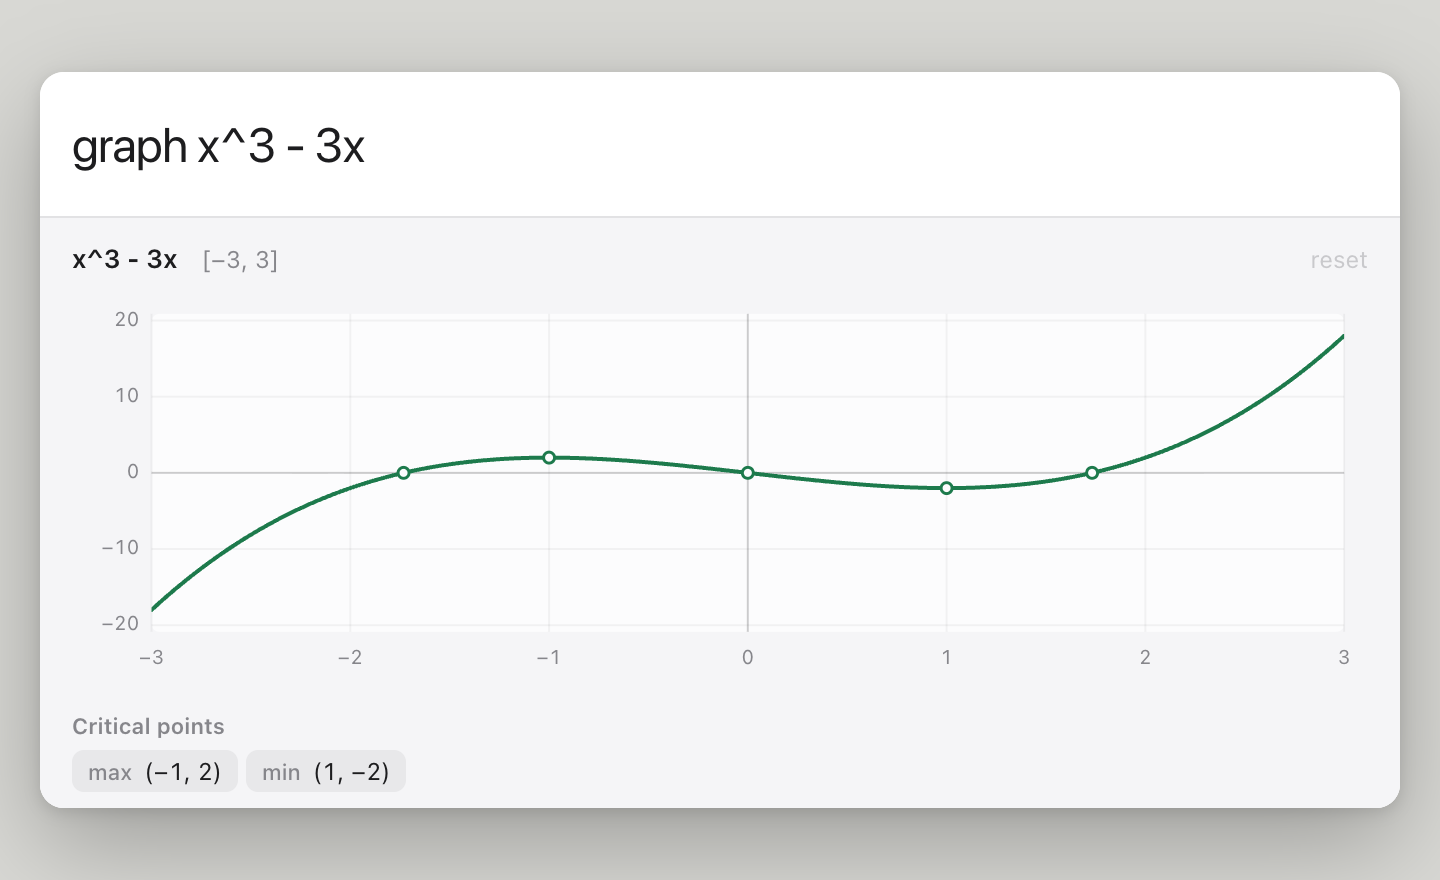
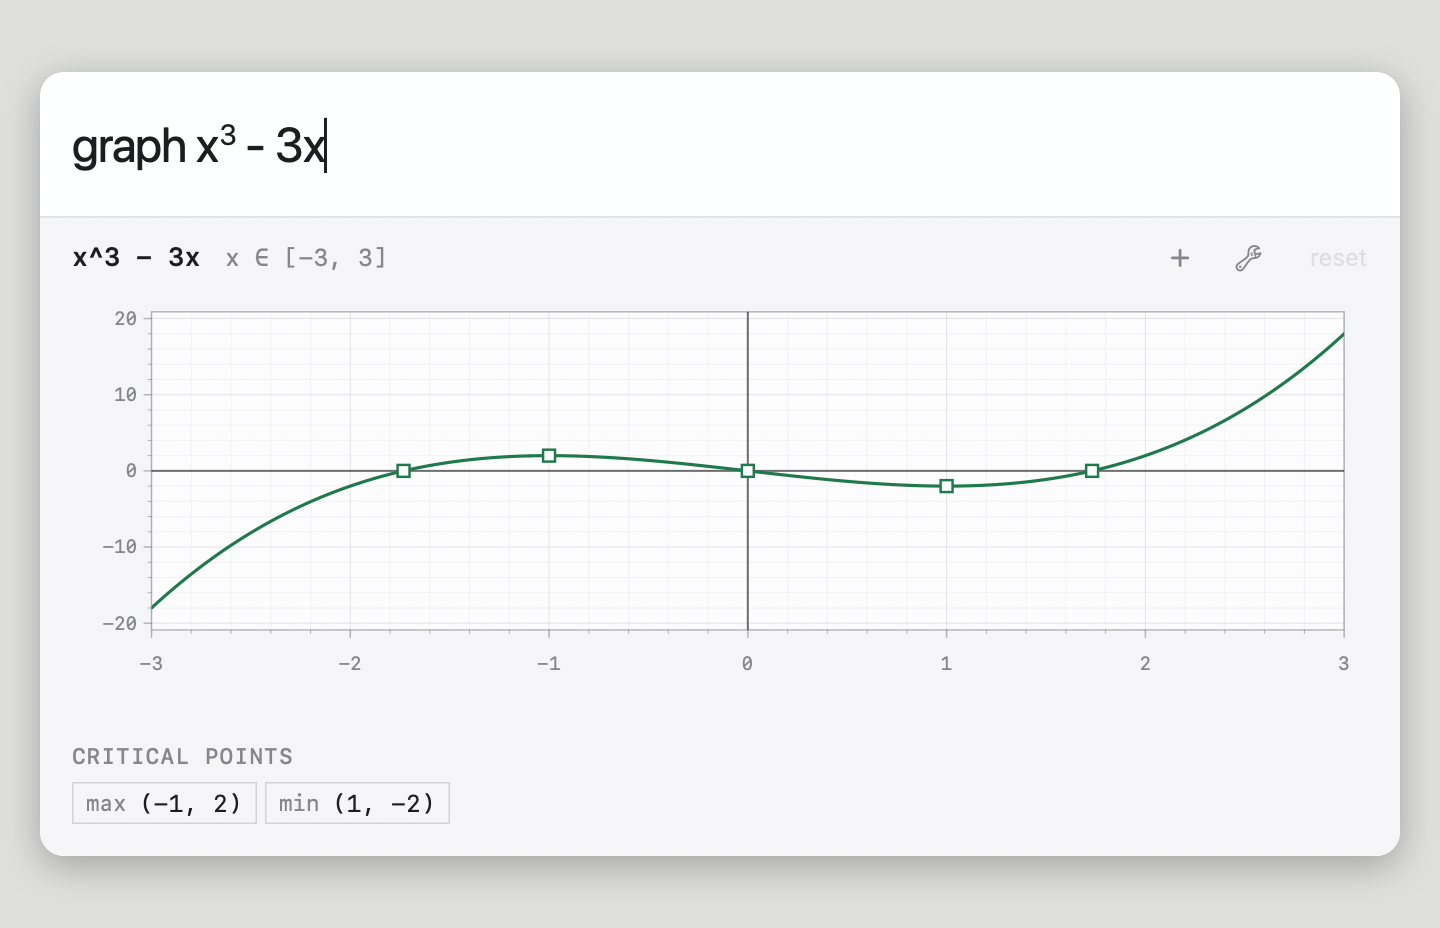
readme: every feature listed, and new screenshots from the native mac app (14 scenes, light and dark: adds 3D graphs, systems, calculus, matrices, complex numbers, the identities sheet and games); mac needs macOS 12

diff --git a/README.md b/README.md
@@ -4,58 +4,177 @@ A Spotlight-style scientific calculator for Mac and Windows. Press **Control + O
 
 Type `sin(90)`, `72 f`, or `$10 for lunch + 15% tip` — the answer updates as you type.
 
-## Preview
+## Features
 
-**Unit conversion.** Type a value with units, and add `to` for a specific target.
+Q Calc runs on Mac and Windows. A few of the newest features, marked *(Mac)*, are on the Mac first and come to Windows in a later update. On Windows, read **⌘** and **⌃** as **Ctrl** and **Option** as **Alt**; every shortcut can be changed under **Keybinds** in settings. Type `?` in the bar for a cheat sheet of keys and things to try, or `tutorial` for the walkthrough.
+
+### The bar
+
+- **Control + Option + Space** (**Alt + Space** on Windows) shows the calculator over whatever you're doing. **Esc** or a click outside hides it, and what you were typing is kept for a while (**Keep unfinished** in settings).
+- The answer updates as you type, with a typeset preview of the expression underneath when it helps.
+- Type as you would on a scientific calculator: `sin(90)`, `arcsin(0.5)`, `sin^-1(0.5)`, `sqrt(2)`, `2^8`, `5!`, `nCr(5,2)`, `GCF(12, 18)`, `LCM(4, 6)`, `80 + 15%`. Words become symbols as you type (`pi` → π, `sqrt` → √), with the square root drawn over what it covers.
+- Grey parentheses show where Q Calc closes what you left open; **Tab** (or **→** at the end) types them in. **Tab** also accepts a completion.
+- Units and functions are coloured as you type, and hovering a word names it (`ms` millisecond, `gcf` greatest common factor, `π` pi). A faint `°` or `rad` after a trig argument shows which angle mode it's read in.
+- If a line can't be answered, a squiggle shows where and why.
+- *(Mac)* **Stacked fractions and powers** (a setting, off by default): `/` puts what you typed over a fraction bar and `^` raises the power, as on a graphing calculator; **↑** and **↓** move between top and bottom.
+- Pasted text becomes one plain line. On the Mac, **Bring in highlighted text** (settings) puts text you've highlighted in another app into the bar.
+
+### Answers
+
+- Exact and decimal side by side for roots and trig (`sqrt(3)/2 ≈ 0.866025`). **Answers → Exact** or **Approximate** picks which one **⌘C** and `ans` use; **Rationalize denominators** rewrites `5/sqrt(41)` as `5sqrt(41)/41`.
+- **⌃D** switches degrees and radians, **⌃F** fraction answers, **⌃S** significant figures from the input (`12.0 kg + 3.15 kg` is `15.2 kg`). **⌃E** turns on exponent form (`3 × 10³`) and **⌃⇧E** cycles the other answer forms.
+- Click an answer, or press **⌘C**, to copy it. Each half of an exact ≈ decimal answer copies on its own. **⌘⇧C** copies the whole line. Copies leave the unit off by default, and can be Typst-compatible.
+- Select part of the line to see that part's answer on its own.
+- Start a line with an operator to keep going from the last answer (`*2`), or type `ans`.
+- *(Mac)* **⌃W** shows the working: derivatives by rule, integrals by parts or substitution, equations step by step.
+
+### History
+
+- **Enter** saves a calculation to the tape above the bar. **↑** and **↓** walk back through it, and **←** / **→** pick the expression or the answer. Clicking (or **Enter** on) a row inserts it at the cursor: `cos(` then a previous `31` becomes `cos(31)`.
+- **⌘⌫** deletes a row and **⌘Z** brings it back. **⌃C** (**Ctrl + Shift + Backspace** on Windows) clears history and stored variables.
+- Settings choose whether the tape shows recent rows, always, or only on **↑**, and whether a row inserts its expression or its answer.
+
+<picture>
+  <source media="(prefers-color-scheme: dark)" srcset="docs/screenshots/history-dark.png">
+  <img alt="History tape: x = 9.81, √2 ≈ 1.41421, arcsin(0.5) = 30 deg, x * 2.5^2 / 2 = 30.6563, integral(x^2, 0, 3) = 9, then ans*3 = 27" src="docs/screenshots/history.png" width="720">
+</picture>
+
+### Units and measurement
+
+- Type a value with units and add `to` for a target: `72 f`, `2 in to cm`, `5 ft 10 in to cm`, `3.2 atm to kPa`, `60 mph to m/s`. Units carry through the math (`$30/hr * 40 hr`, `10 mA * 4.7 kohm`).
+- Feet and inches as builders write them: `6'2`, `5 3/8"`, `6'5 3/8"`, with answers in sixteenths when they're fractional.
+- **Option + ↑** / **Option + ↓** step a unit through its metric prefixes (`4700 ohm` → `4.7 kΩ`) or *(Mac)* a length between feet-and-inches and feet.
+- Any angle unit inside trig: `sin(90 deg)`, `cos(π/4 rad)`.
+- Default units are set per quantity in settings.
+- `conversion` or `metric prefixes` opens a sheet of the metric prefixes, common conversion factors and temperature formulas.
 
 <picture>
   <source media="(prefers-color-scheme: dark)" srcset="docs/screenshots/units-dark.png">
-  <img alt="Unit conversions: 98.6 f is 37 °C, 60 mph is 26.8224 m/s, 5 ft 10 in is 177.8 cm" src="docs/screenshots/units.png" width="720">
+  <img alt="Unit conversions: 98.6 f is 37 °C, 60 mph is 26.8224 m/s, 3.2 atm is 324.24 kPa, 5 ft 10 in is 177.8 cm" src="docs/screenshots/units.png" width="720">
 </picture>
 
-**Uncertainty.** Type `+/-` or `~` for ±, and the uncertainty carries through the calculation.
+### Uncertainty and significant figures
+
+- Type `+/-` or `~` for ± (`-/+` for ∓), and the uncertainty carries through the calculation: `(9.81 ± 0.02) * (2.50 ± 0.01)` is `24.53 ± 0.15`.
+- Significant figures follow the input when **⌃S** is on, so an answer rounds itself correctly.
 
 <picture>
   <source media="(prefers-color-scheme: dark)" srcset="docs/screenshots/uncertainty-dark.png">
   <img alt="Uncertainty: (9.81 ± 0.02) * (2.50 ± 0.01) is 24.53 ± 0.15" src="docs/screenshots/uncertainty.png" width="720">
 </picture>
 
-**Calendar and time math** (Mac and Windows apps).
+### Algebra and solving
 
-<picture>
-  <source media="(prefers-color-scheme: dark)" srcset="docs/screenshots/calendar-dark.png">
-  <img alt="Calendar math: today + 90 days, days until December 25, 3:45pm + 4 hr 10 min is 7:55 PM" src="docs/screenshots/calendar.png" width="720">
-</picture>
-
-**History.** Enter saves a calculation, and the arrow keys walk back through the tape. Stored variables like `x` carry into later lines.
-
-<picture>
-  <source media="(prefers-color-scheme: dark)" srcset="docs/screenshots/history-dark.png">
-  <img alt="History tape with a variable, square root, sine, and an integral" src="docs/screenshots/history.png" width="720">
-</picture>
-
-**Solving equations.** Type an equation with `=` to solve it.
+- Variables and functions: `x = 5`, then `x*2`; `f(x) = x^3`, then `f(2)`. Definitions after a `;` apply to that line alone: `x^2 + y; x=5; y=2`.
+- Type an equation with `=` to solve it: `x^2 - 5x + 6 = 0` gives `x = 2, 3`, and every root copies on its own. `solve(x^2 - cos(x) = 0, x = 0.2)` starts Newton's method from a guess, and equations can carry units: `solve(0.5 = e^(-t/0.384 ms), t)` is `0.266 ms`.
+- Rearrange a formula with `isolate`: `isolate T in PV = nRT` gives `T = P*V/(R*n)`. `solve y = mx + b for x` rearranges, or gives a number when every other letter is known.
+- Systems of equations: `sys 2` through `sys 5` open fields that solve as you type, units included (`x + y = 10 m`, `x - y = 2 m` gives `x = 6 m, y = 4 m`). Nonlinear systems solve too, exactly when they can and numerically when not. In one line: `solve({x^2 + y^2 = 4, x^2 - y = 2})`.
+- Summations: `sum n, n=1..9`, with the limits typed into small slots beside Σ.
 
 <picture>
   <source media="(prefers-color-scheme: dark)" srcset="docs/screenshots/solve-dark.png">
-  <img alt="Solving x^2 - 5x + 6 = 0 gives x = 2, 3, and 2^x = 10 gives x = 3.32192809489" src="docs/screenshots/solve.png" width="720">
+  <img alt="Solving x^2 - 5x + 6 = 0 gives x = 2, 3; 2^x = 10 gives x = 3.32193; isolate T in PV = nRT gives T = P*V/(R*n)" src="docs/screenshots/solve.png" width="720">
 </picture>
 
-**Graphing.** `graph` plots a function and lists its critical points.
+<picture>
+  <source media="(prefers-color-scheme: dark)" srcset="docs/screenshots/system-dark.png">
+  <img alt="sys 2 with x + y = 10 m and x - y = 2 m gives x = 6 m, y = 4 m" src="docs/screenshots/system.png" width="720">
+</picture>
+
+### Calculus
+
+- Derivatives: `d/dx x^2 sin(x)`.
+- Definite integrals (`integral(x^2, 0, 3)`) and indefinite ones from a table (`∫ x e^x dx` is `x e^x - e^x + C`).
+- Differential equations: `y' = …`, `dy/dx`, and linear equations of first or second order with constant coefficients (`y'' + y = 0`).
+- Time derivatives for dynamics: `d/dt (x sin(theta))` is `ẋ sin(θ) + xθ̇ cos(θ)`, and `d²/dt²` works too. A row of chips shows which letters change with time; click one to switch it. Dotted variables can be typed `thetadot`, `dot(theta)` or `\dot\theta`, and LaTeX pastes straight in.
+
+<picture>
+  <source media="(prefers-color-scheme: dark)" srcset="docs/screenshots/calculus-dark.png">
+  <img alt="d/dt (x sin(theta)) is ẋ sin(θ) + xθ̇ cos(θ); d/dx x^3 e^x is e^x (3x² + x³); y'' + y = 0 gives y = C1 cos(x) + C2 sin(x); ∫ x e^x dx is x e^x - e^x + C" src="docs/screenshots/calculus.png" width="720">
+</picture>
+
+### Matrices and vectors
+
+- `[1 2; 3 4]` or `[[1,2],[3,4]]`, with `+`, `-` and `*` (a number scales, two matrices multiply rows by columns), `inv(A)`, `A^-1` or `inverse of A`, `det(A)` or `det A`, `A^T`, `A'` or `transpose A`, `trace(A)`, `rank(A)`, `rref(A)`, `identity(3)`, and `dot`, `cross` and `norm` for vectors. Entries can be any math (`[sqrt(2) 0; 0 1]`), answers show simple fractions beside the decimals, and a matrix answer becomes `ans`, so `*2` keeps going. Store one with `A = [1 2; 3 4]`. Sizes that don't fit say why, and a nearly singular matrix has no inverse rather than junk digits.
+
+<picture>
+  <source media="(prefers-color-scheme: dark)" srcset="docs/screenshots/matrix-dark.png">
+  <img alt="A = [1 2; 3 4], det(A) = -2, and inv(A) = [-2 1; 3/2 -1/2] with a typeset preview" src="docs/screenshots/matrix.png" width="720">
+</picture>
+
+### Complex numbers
+
+- `i` or `j`: `(3+j4)/(1-j)`, `e^(j0.5)`, phasors like `10∠30`, `3+j4 in polar`, and complex values with units such as `(3+j4) kΩ`.
+
+<picture>
+  <source media="(prefers-color-scheme: dark)" srcset="docs/screenshots/complex-dark.png">
+  <img alt="3+j4 in polar is 5∠53.1301°, 10∠30 is 8.66025 + j5, and (3+j4)/(1-j) is -0.5 + j3.5" src="docs/screenshots/complex.png" width="720">
+</picture>
+
+### Graphing
+
+- `graph x^3 - 3x`, `graph f`, or `graph f(x) = x^3` opens a graph under the bar with pan, zoom and a hover readout, and lists roots, maxima, minima and intercepts as chips that copy their value.
+- *(Mac)* Implicit curves (`graph x^2 + y^2 = 25`), lines through points, and several equations on one graph (`graph a; b`, or the **+** in its header), each in its own colour.
+- *(Mac)* Surfaces in 3D: `graph z = x^2 - y^2` opens a view you can orbit, pan and zoom, with minima, maxima and saddle points listed, or a contour view.
+- The wrench opens graph settings: polar grid, axis labels, minor gridlines, Zoom Square and more.
 
 <picture>
   <source media="(prefers-color-scheme: dark)" srcset="docs/screenshots/graph-dark.png">
   <img alt="Graph of x^3 - 3x with a max at (-1, 2) and a min at (1, -2)" src="docs/screenshots/graph.png" width="720">
 </picture>
 
-**Periodic table.** Type `periodic table`, then click elements to build a formula (H, H, O is H₂O) and click it to insert its molar mass; a right click takes one away. A formula typed in the bar (`H2O`, `Ca(OH)2`, `molar mass of NaCl`) answers with its molar mass too.
+<picture>
+  <source media="(prefers-color-scheme: dark)" srcset="docs/screenshots/surface-dark.png">
+  <img alt="3D graph of z = (x^2 - y^2)/2 with a saddle point at (0, 0, 0)" src="docs/screenshots/surface.png" width="720">
+</picture>
 
-**Reference sheets.** `identities` (or `idt`) opens trig, logs, algebra, partial fractions and summation; `idt summation` opens it at that part, and `trig` at trig. `integrals`, `unit conversions` and `constants` (CODATA physical constants) open sheets of their own. A click copies a row.
+### Chemistry and reference sheets
+
+- `periodic table` (or `periodic`): click elements to build a formula (H, H, O is H₂O) and click it to insert its molar mass. A formula typed in the bar (`H2O`, `Ca(OH)2`, `molar mass of NaCl`) answers with its molar mass too.
+- `identities` (or `idt`): trig, logs, algebra, partial fractions and summation. `integrals`, `unit conversions` and `constants` (CODATA physical constants) open sheets of their own. A click copies a row.
+- *(Mac)* `formulas` lists every sheet, including chemistry, biology, physics, circuits, statistics, geometry, linear algebra, vector calculus, Taylor series, Fourier, Laplace and z-transform tables, and the unit circle. Each has a search field, and sheets open in one window with back and forward.
 
 <picture>
   <source media="(prefers-color-scheme: dark)" srcset="docs/screenshots/periodic-dark.png">
-  <img alt="Periodic table, with 2*1.008+15.999 = 18.015 built by clicking H and O" src="docs/screenshots/periodic.png" width="720">
+  <img alt="Periodic table with H₂O built by clicking H twice and O: 18.015 g/mol" src="docs/screenshots/periodic.png" width="720">
 </picture>
+
+<picture>
+  <source media="(prefers-color-scheme: dark)" srcset="docs/screenshots/identities-dark.png">
+  <img alt="The trig identities sheet" src="docs/screenshots/identities.png" width="720">
+</picture>
+
+### Everyday math
+
+- `$10 for lunch + 15% tip`, `$45.50 + $12.25`, `40 is what % of 90`, `30 is 20% of what`.
+- Dates and times: `today + 90 days`, `days until christmas`, `3:45pm + 4 hr 10 min`, `5pm - 9am`, `time in tokyo`.
+- Currencies with daily rates from the European Central Bank: `100 usd to eur`, `$5 * 3 to eur`, `$5 + €3`, and `usd to eur` for the rate itself.
+
+<picture>
+  <source media="(prefers-color-scheme: dark)" srcset="docs/screenshots/calendar-dark.png">
+  <img alt="today + 90 days, days until christmas, 3:45pm + 4 hr 10 min is 7:55 pm, and $10 for lunch + 15% tip is $11.50" src="docs/screenshots/calendar.png" width="720">
+</picture>
+
+### Messages and sharing
+
+- `message <name>` (or `chat <name>`) sends someone a message, and `messages` shows your conversations.
+- `paste to <name>` sends your clipboard, and `send file to <name>`, or dropping files on the bar, sends files. Clips and files are end-to-end encrypted; Q Calc warns you if someone's key changes and shows a safety code to compare.
+- A message that arrives while the bar is hidden shows as a small note in the corner that never takes focus and stays quiet in full-screen apps and Do Not Disturb.
+
+### Games
+
+- Type `games` for the list, or a game's name: Pong, Connect 4, Ultimate tic-tac-toe, Crack, Equal (a daily puzzle), 24 / Countdown, Ember & Frost and Trails. Play against the computer or a friend online, by room list or code. **⌃F** makes a game full screen.
+
+<picture>
+  <source media="(prefers-color-scheme: dark)" srcset="docs/screenshots/games-dark.png">
+  <img alt="The games list: pong, connect 4, ultimate tic-tac-toe, ember & frost, crack, equal, 24 / countdown, trails" src="docs/screenshots/games.png" width="720">
+</picture>
+
+### Settings and the rest
+
+- Every shortcut can be rebound under **Keybinds**. Light, dark or system appearance, a colour for units and functions, open at login, and Increase Contrast / Reduce Transparency / Reduce Motion respected.
+- Updates install themselves in the background.
+- A few surprises, for the curious: try dividing by zero, Euler's identity, `do a barrel roll`, or the Konami code.
 
 ## Installation
 
@@ -80,7 +199,7 @@ Q Calc checks for updates once a day and installs them while you're away from th
 
 Install via Homebrew to get autoupdates (Preferred)
 
-You need [Homebrew](https://brew.sh), a Mac with **macOS 13.5 Ventura** or later (Apple silicon or Intel).
+You need [Homebrew](https://brew.sh), a Mac with **macOS 12 Monterey** or later (Apple silicon or Intel).
 
 ```bash
 brew tap maxconine/qcalc https://github.com/maxconine/Q-Calc
@@ -114,35 +233,6 @@ To upgrade immediately instead of waiting for the daily check:
 brew update
 brew upgrade --cask q-calc
 ```
-
-## Using Q Calc
-
-On Windows, read **⌘** and **⌃** below as **Ctrl**, **Option** as **Alt**, and use **Ctrl + Shift + Backspace** to clear history, since Ctrl + C copies. Those are the defaults; **Keybinds** in settings changes any of them. Settings live in the settings window (**Ctrl + ,** or the tray icon) rather than a menu. Type `?` for the shortcuts in use.
-
-- **Control + Option + Space** shows the calculator. **Esc** or a click outside the window hides it. What you were typing is kept for a while (see **Keep unfinished** in the menu).
-- Type as you would on a scientific calculator: `sin(90)`, `arcsin(0.5)`, `sin^-1(0.5)`, `sqrt(2)`, `2^8`, `5!`. `pi` becomes π as you type.
-- **⌃D** switches between degrees and radians. **⌃F** toggles fraction results. **⌃C** clears history and resets stored variables and functions. **Answers → Rationalize denominators** controls whether exact answers like `5/sqrt(41)` are rewritten as `5sqrt(41)/41`.
-- For trig and square roots, answers show a closed form next to the decimal when both exist (`sqrt(3)/2 ≈ 0.866025`). Click either side to copy (or, in history, to insert). Other expressions show the decimal. **⌘C** and `ans` follow **Answers → Exact** or **Approximate**.
-- Unit conversions work too: `72 f`, `2 in to cm`.
-- `conversion` or `metric prefixes` opens a reference sheet: the metric prefixes from quetta to quecto, and the common conversion factors and temperature formulas. Click a row to copy it.
-- **Option + Up** and **Option + Down** step a metric answer's unit one prefix at a time, a factor of 1000 per press: `4700 ohm` becomes `4.7 kΩ`, and `2 L` becomes `2000 mL`, then `2000000 μL`.
-- Store a variable with `x = 5`, then use it in later expressions (`x*2`). Define a function the same way: `f(x) = x^3`, then call it with `f(2)`.
-- Graph with `graph x^3`, `graph f` (after defining `f`), or `graph f(x) = x^3`. A panel opens under the input with zoom and a list of critical points.
-- Matrices: type `[1 2; 3 4]` (or `[[1,2],[3,4]]`) and use `+`, `-`, `*` (a number scales, two matrices multiply rows by columns), `inv(A)`, `A^-1` or `inverse of A`, `det(A)` or `det A`, `A^T`, `A'` or `transpose A`, `trace(A)`, `rank(A)`, `rref(A)`, `identity(3)`, and `dot`, `cross` and `norm` for vectors. Entries can be any math (`[sqrt(2) 0; 0 1]`). Store one with `A = [1 2; 3 4]`, and a matrix answer becomes `ans`, so `*2` keeps going. Answers show simple fractions beside the decimals. Sizes that don't fit say why, and a nearly singular matrix has no inverse rather than junk digits.
-- Rearrange a formula with `isolate`: `isolate T in PV = nRT` gives `T = P*V/(R*n)`, and `y = mx + b isolate x` works too. On its own, `isolate x` uses the equation in the row before. Letters written together multiply (`nRT`), and stored variables stay letters.
-- `solve x in …`, `solve for x: …` or `… for x` gives a number when every other letter is known, and otherwise rearranges like `isolate` (`solve y = mx + b for x` is `x = (y - b)/m`). Here stored variables are filled in.
-- `solve(equation, x)` works too, and `solve(x^2 - cos(x) = 0, x = 0.2)` starts from a guess: you get the root Newton's method reaches from it (0.82413 here; from `x = -9`, -0.82413). Equations can carry units: `solve(0.5 = e^(-t/0.384 ms), t)` is `0.266 ms`.
-- Solve a system with `sys2` through `sys5` (`sys 3` works too). The fields open as soon as you type the count, and the answer updates as you type (`x + y = 5`, `x - y = 1`). You don't have to fill every field: once the equations you've typed settle a value, it shows. Units carry through: `x + y = 10 m`, `x - y = 2 m` gives `x = 6 m, y = 4 m`, and `F = m*a`, `m = 2 kg`, `a = 3 m/s^2` gives `F = 6 N`. Nonlinear systems solve too: linear and quadratic ones exactly, anything else numerically (`x^2 + y^2 = 4`, `x^2 - y = 2` gives all three solutions; `e^x = y`, `x + y = 2` gives `x = 0.44285, y = 1.55715`).
-- Time derivatives: `d/dt (x sin(theta))` is `ẋ sin(θ) + xθ̇ cos(θ)`, and `d²/dt²` works too. Positions and angles (x, y, z, r, s, θ, φ, ψ) change with time and other letters (L, h, k, m…) are constants; a row of chips under the bar shows which is which, and clicking one switches it until Q Calc quits. Dotted variables can be typed `thetadot`, `dot(theta)`, `\dot\theta` or `θ̇`, and LaTeX can be pasted straight in: `d/dt $e^{k\theta}\,\dot\theta$`.
-- Or in one line: `solve({x^2 + y^2 = 4, x^2 - y = 2})` for every solution, or `solve({x^2 + y^2 = 4, x^2 - y = 2}, x = 1, y = 1)` for the one those guesses lead to.
-- Natural-language math works too: `$10 for lunch + 15% tip`, `$45.50 + $12.25`, `$30/hr * 40 hr`, `40 is what % of 90`, `30 is 20% of what`, `3:45pm + 4 hr 10 min`, `5pm - 9am`, `days until christmas`, `time in tokyo` and `100 usd to eur` (live rates from the European Central Bank, refreshed daily).
-<!-- Apple Dictionary — uncomment to restore:
-- Type a word such as `ingenious` to see its Apple Dictionary definition. Phrases work too: `define New York`, `definition of apple`, `what does pi mean`. Click the definition or press **⌘C** to copy it. **Enter** saves the word to history.
--->
-- The answer updates as you type. Click it or press **⌘C** to copy. Type `ans` to insert it at the cursor.
-- **Enter** saves the calculation to history. **Up arrow** or scroll the tape to see previous ones. Click a previous expression to insert it at the typing cursor. Click a previous answer — or either side of a dual answer — to insert that value (`cos(` then a previous `31` becomes `cos(31)`). Press **Enter** on a highlighted row to reuse it; **History** in the menu (or the History setting in the browser) chooses whether that brings in the original expression or just the answer.
-
-The menu bar icon can show the calculator without the hotkey. Significant figures, exact vs approximate answers, whether to rationalize denominators, whether history inserts the expression or the answer, light or dark appearance, how long to keep unfinished input, and default units are set from the same menu.
 
 ## Development
 
